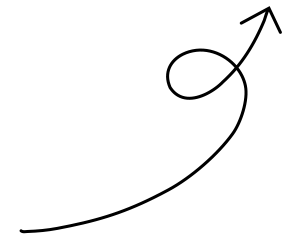
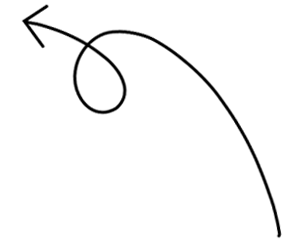
chnages landing page and removed unwanted images

diff --git a/src/components/whiteboardtheme.tsx b/src/components/whiteboardtheme.tsx
@@ -10,6 +10,9 @@ import web4 from "../assets/img/web4.png";
 import web5 from "../assets/img/web5.png";
 
 import arrow0 from "../assets/img/arrow0.png";
+import arrow1 from "../assets/img/arrow1.png";
+import speak1 from "../assets/img/speak1.png";
+
 import line1 from "../assets/img/line1.png";
 import line2 from "../assets/img/line2.png";
 import line3 from "../assets/img/line3.png";
@@ -47,19 +50,11 @@ const Whiteboardtheme: React.FC = () => {
     if (type === "oxybricks") return navigate("/fpl");
   };
 
-  const handleAdcbAiClick = () => {
-    window.open(
-      "https://www.askoxy.ai/radha/fab-ai-intelligence",
-      "_blank",
-      "noopener,noreferrer",
-    );
-  };
-  
   const cards = [
     {
       key: "loans",
       league: "IP2PL",
-      title:"Peer-to-Peer Lending",
+      title: "Peer-to-Peer Lending",
       image: web1,
       color: "#6B35C7",
       shadow: "drop-shadow(0 10px 10px rgba(107,53,199,0.25))",
@@ -69,7 +64,7 @@ const Whiteboardtheme: React.FC = () => {
     {
       key: "jobs",
       league: "JPL",
-      title:"Jobs",
+      title: "Jobs",
       image: web2,
       color: "#0B4697",
       shadow: "drop-shadow(0 10px 10px rgba(11,70,151,0.25))",
@@ -79,7 +74,7 @@ const Whiteboardtheme: React.FC = () => {
     {
       key: "studyabroad",
       league: "SAPL",
-      title:"Study Abroad",
+      title: "Study Abroad",
       image: web3,
       color: "#D71D8E",
       shadow: "drop-shadow(0 10px 10px rgba(215,29,142,0.25))",
@@ -90,7 +85,7 @@ const Whiteboardtheme: React.FC = () => {
     {
       key: "oxybricks",
       league: "FPL",
-      title:"Fractional Ownership",
+      title: "Fractional Ownership",
       image: web31,
       color: "#6B35C7",
       shadow: "drop-shadow(0 10px 10px rgba(107,53,199,0.25))",
@@ -101,7 +96,7 @@ const Whiteboardtheme: React.FC = () => {
     {
       key: "gold",
       league: "GPL",
-      title:"Gold",
+      title: "Gold",
       image: web4,
       color: "#C48A00",
       shadow: "drop-shadow(0 10px 10px rgba(196,138,0,0.25))",
@@ -111,7 +106,7 @@ const Whiteboardtheme: React.FC = () => {
     {
       key: "bharat",
       league: "AIPL",
-title:"Bharat AI Store",
+      title: "Bharat AI Store",
       image: web5,
       color: "#5A5A5A",
       shadow: "drop-shadow(0 10px 10px rgba(90,90,90,0.22))",
@@ -140,7 +135,7 @@ title:"Bharat AI Store",
       <div className="pointer-events-none absolute bottom-10 left-1/3 h-72 w-72 rounded-full bg-[#C48A00]/16 blur-[95px]" />
       <div className="pointer-events-none absolute bottom-24 right-1/4 h-72 w-72 rounded-full bg-[#1F9D38]/12 blur-[100px]" />
 
-      <div className="relative z-10 mx-auto max-w-[1540px] px-3 pb-5 pt-6 sm:px-6 sm:pb-7 sm:pt-8 md:px-8 lg:px-10 lg:pb-8 lg:pt-10 xl:px-12">
+      <div className="relative z-10 mx-auto max-w-[1540px] px-3 pb-5 pt-4 sm:px-6 sm:pb-6 sm:pt-8 md:px-8 lg:px-10 lg:pb-7 lg:pt-8 xl:px-12">
         <div className="mx-auto w-full max-w-[1440px]">
           <div className="relative mx-auto max-w-[1320px] text-center">
             <motion.h5 className="mx-auto max-w-[1320px] text-center text-[28px] leading-[1.08] tracking-[-0.04em] sm:text-[38px] md:text-[48px] lg:text-[58px] xl:text-[64px]">
@@ -166,20 +161,68 @@ title:"Bharat AI Store",
               
             /> */}
 
-            <img
-              src={arrow0}
-              alt="arrow"
-              className="pointer-events-none absolute hidden object-contain lg:block"
-              style={{
-                left: "14%",
-                top: "120%",
-                width: "clamp(90px, 7.5vw, 140px)",
-                transform: "translateY(10px) rotate(-8deg)",
-              }}
-            />
           </div>
 
-          <div className="mt-8 grid grid-cols-3 items-end gap-x-1 gap-y-4 sm:mt-9 sm:grid-cols-3 sm:gap-x-4 sm:gap-y-6 md:mt-12 md:grid-cols-6 md:gap-x-2 lg:gap-x-3 xl:gap-x-4">
+          <div className="relative 
+          ">
+            {/* Speak + arrows aligned to league grid — desktop only */}
+            <div className="pointer-events-none absolute inset-x-0 top-0 z-20 hidden h-[130px] md:block lg:h-[145px] xl:h-[155px]">
+              <button
+                type="button"
+                onClick={() => navigate("/radhai")}
+                className="pointer-events-auto absolute top-0 -translate-x-1/2 cursor-pointer border-0 bg-transparent p-0 transition-transform duration-300 hover:scale-105"
+                style={{ left: "16.666%" }}
+                aria-label="Speak with radhAI"
+              >
+                <img
+                  src={speak1}
+                  alt="Speak with radhAI"
+                  className="h-auto object-contain"
+                  style={{ width: "clamp(110px, 10vw, 160px)" }}
+                />
+              </button>
+
+              <button
+                type="button"
+                onClick={() => navigate("/radhai")}
+                className="pointer-events-auto absolute top-0 -translate-x-1/2 cursor-pointer border-0 bg-transparent p-0 transition-transform duration-300 hover:scale-105"
+                style={{ left: "83.333%" }}
+                aria-label="Speak with radhAI"
+              >
+                <img
+                  src={speak1}
+                  alt="Speak with radhAI"
+                  className="h-auto object-contain"
+                  style={{ width: "clamp(110px, 10vw, 160px)" }}
+                />
+              </button>
+
+              <img
+                src={arrow0}
+                alt=""
+                className="absolute object-contain"
+                style={{
+                  left: "22%",
+                  top: "62%",
+                  width: "clamp(65px, 6vw, 100px)",
+                  transform: "rotate(-4deg)",
+                }}
+              />
+
+              <img
+                src={arrow1}
+                alt=""
+                className="absolute object-contain"
+                style={{
+                  left: "73%",
+                  top: "62%",
+                  width: "clamp(65px, 6vw, 100px)",
+                  transform: "rotate(4deg)",
+                }}
+              />
+            </div>
+
+            <div className="grid grid-cols-3 items-end gap-x-1 gap-y-4 sm:grid-cols-3 sm:gap-x-4 sm:gap-y-6 md:grid-cols-6 md:gap-x-2 md:pt-[68px] lg:gap-x-3 lg:pt-[76px] xl:gap-x-4 xl:pt-[84px]">
             {cards.map((card, index) => {
               const isActive = activeIndex === index;
 
@@ -247,15 +290,14 @@ title:"Bharat AI Store",
                       {card.league}
                     </h3>
 
-                    <h1
-                      className="mt-0.5 block text-center text-[14px] font-bold leading-[1.2] text-gray-600 sm:mt-1 sm:text-[13px] md:text-[14px]"
-                    >
+                    <h1 className="mt-0.5 block text-center text-[14px] font-bold leading-[1.2] text-gray-600 sm:mt-1 sm:text-[13px] md:text-[14px]">
                       {card.title}
                     </h1>
                   </motion.div>
                 </button>
               );
             })}
+            </div>
           </div>
 
           <motion.div

diff --git a/src/components/ThankYouPage.tsx b/src/components/ThankYouPage.tsx
@@ -1,7 +1,7 @@
 import React from "react";
 import { Check, Download } from "lucide-react";
 import A from "../assets/img/app (1).png";
-import P from "../assets/img/play (1).png";
+
 
 const ThankYouPage = () => {
   return (
@@ -34,7 +34,11 @@ const ThankYouPage = () => {
             className="flex items-center bg-black px-4 py-3 rounded-lg shadow-md hover:bg-gray-800 transition duration-300"
           >
             <Download size={20} className="text-white mr-2" />
-            <img src={P} alt="Google Play" className="w-28 h-auto" />
+            <img
+              src="https://developer.apple.com/assets/elements/badges/download-on-the-app-store.svg"
+              alt="Google Play"
+              className="w-28 h-auto"
+            />
           </a>
 
           {/* Android APK Link */}
@@ -44,7 +48,7 @@ const ThankYouPage = () => {
             className="flex items-center bg-[#04AA6D] px-4 py-3 rounded-lg shadow-md hover:bg-green-600 transition duration-300"
           >
             <Download size={20} className="text-white mr-2" />
-            <img src={A} alt="Ios" className="w-28 h-auto" />
+            <img src="https://s2.rdbuz.com/web/images/homeV2/appinstall/playStore.svg" alt="Ios" className="w-28 h-auto" />
           </a>
         </div>
 

diff --git a/src/components/qr.tsx b/src/components/qr.tsx
@@ -1,7 +1,7 @@
 import React from "react";
 import { Facebook, Instagram, LinkedinIcon } from "lucide-react";
 import PlayStore from "../assets/img/play (1).png";
-import AppStore from "../assets/img/app (1).png";
+
 import Logo from "../assets/img/logo.png";
 
 const QR = () => {
@@ -84,7 +84,7 @@ const QR = () => {
           >
             <span className="text-base sm:text-lg font-semibold">iOS App</span>
             <img
-              src={AppStore}
+              src="https://developer.apple.com/assets/elements/badges/download-on-the-app-store.svg"
               alt="iOS App Store"
               className="w-20 sm:w-24 h-auto"
             />

diff --git a/src/components/CurrentLandinPage.tsx b/src/components/CurrentLandinPage.tsx
@@ -13,7 +13,7 @@ import ScrollToTop from "./ScrollToTop";
 import BMVCoinPromo from "./BMVCoinPromo";
 import Whiteboardtheme from "./whiteboardtheme";
 import RadhAISection from "./radhAIsection";
-import RadhAiCeo from "./RadhAiCeo";
+
 
 
 const CurrentLandingPage: React.FC = () => {